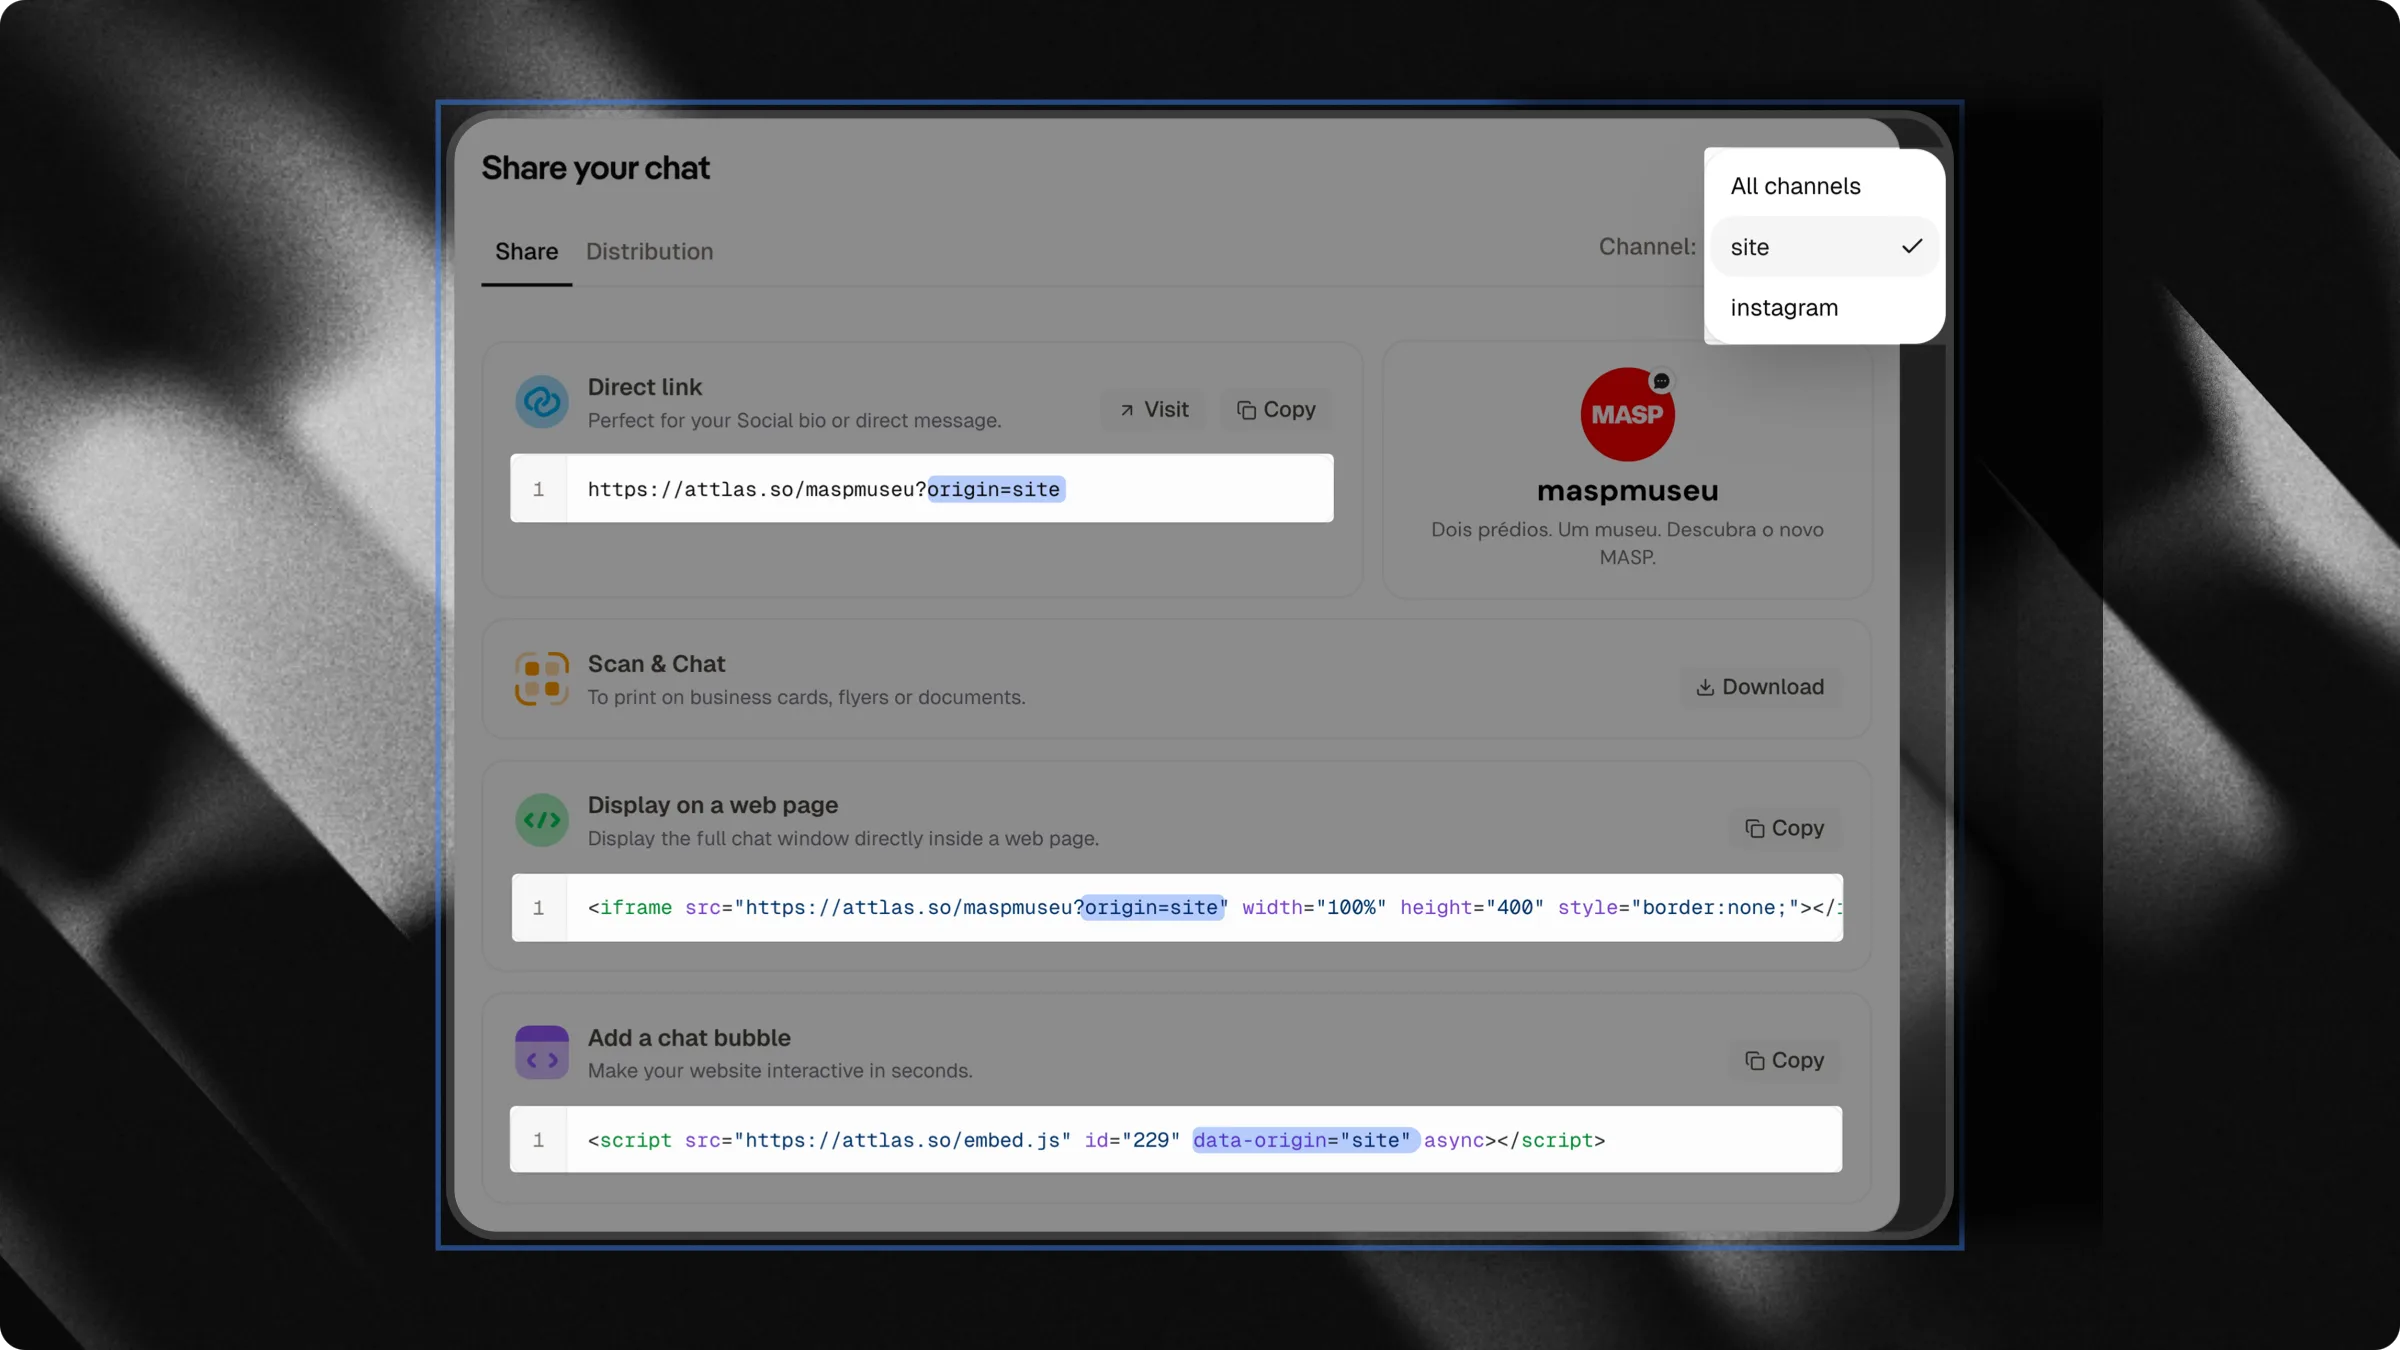
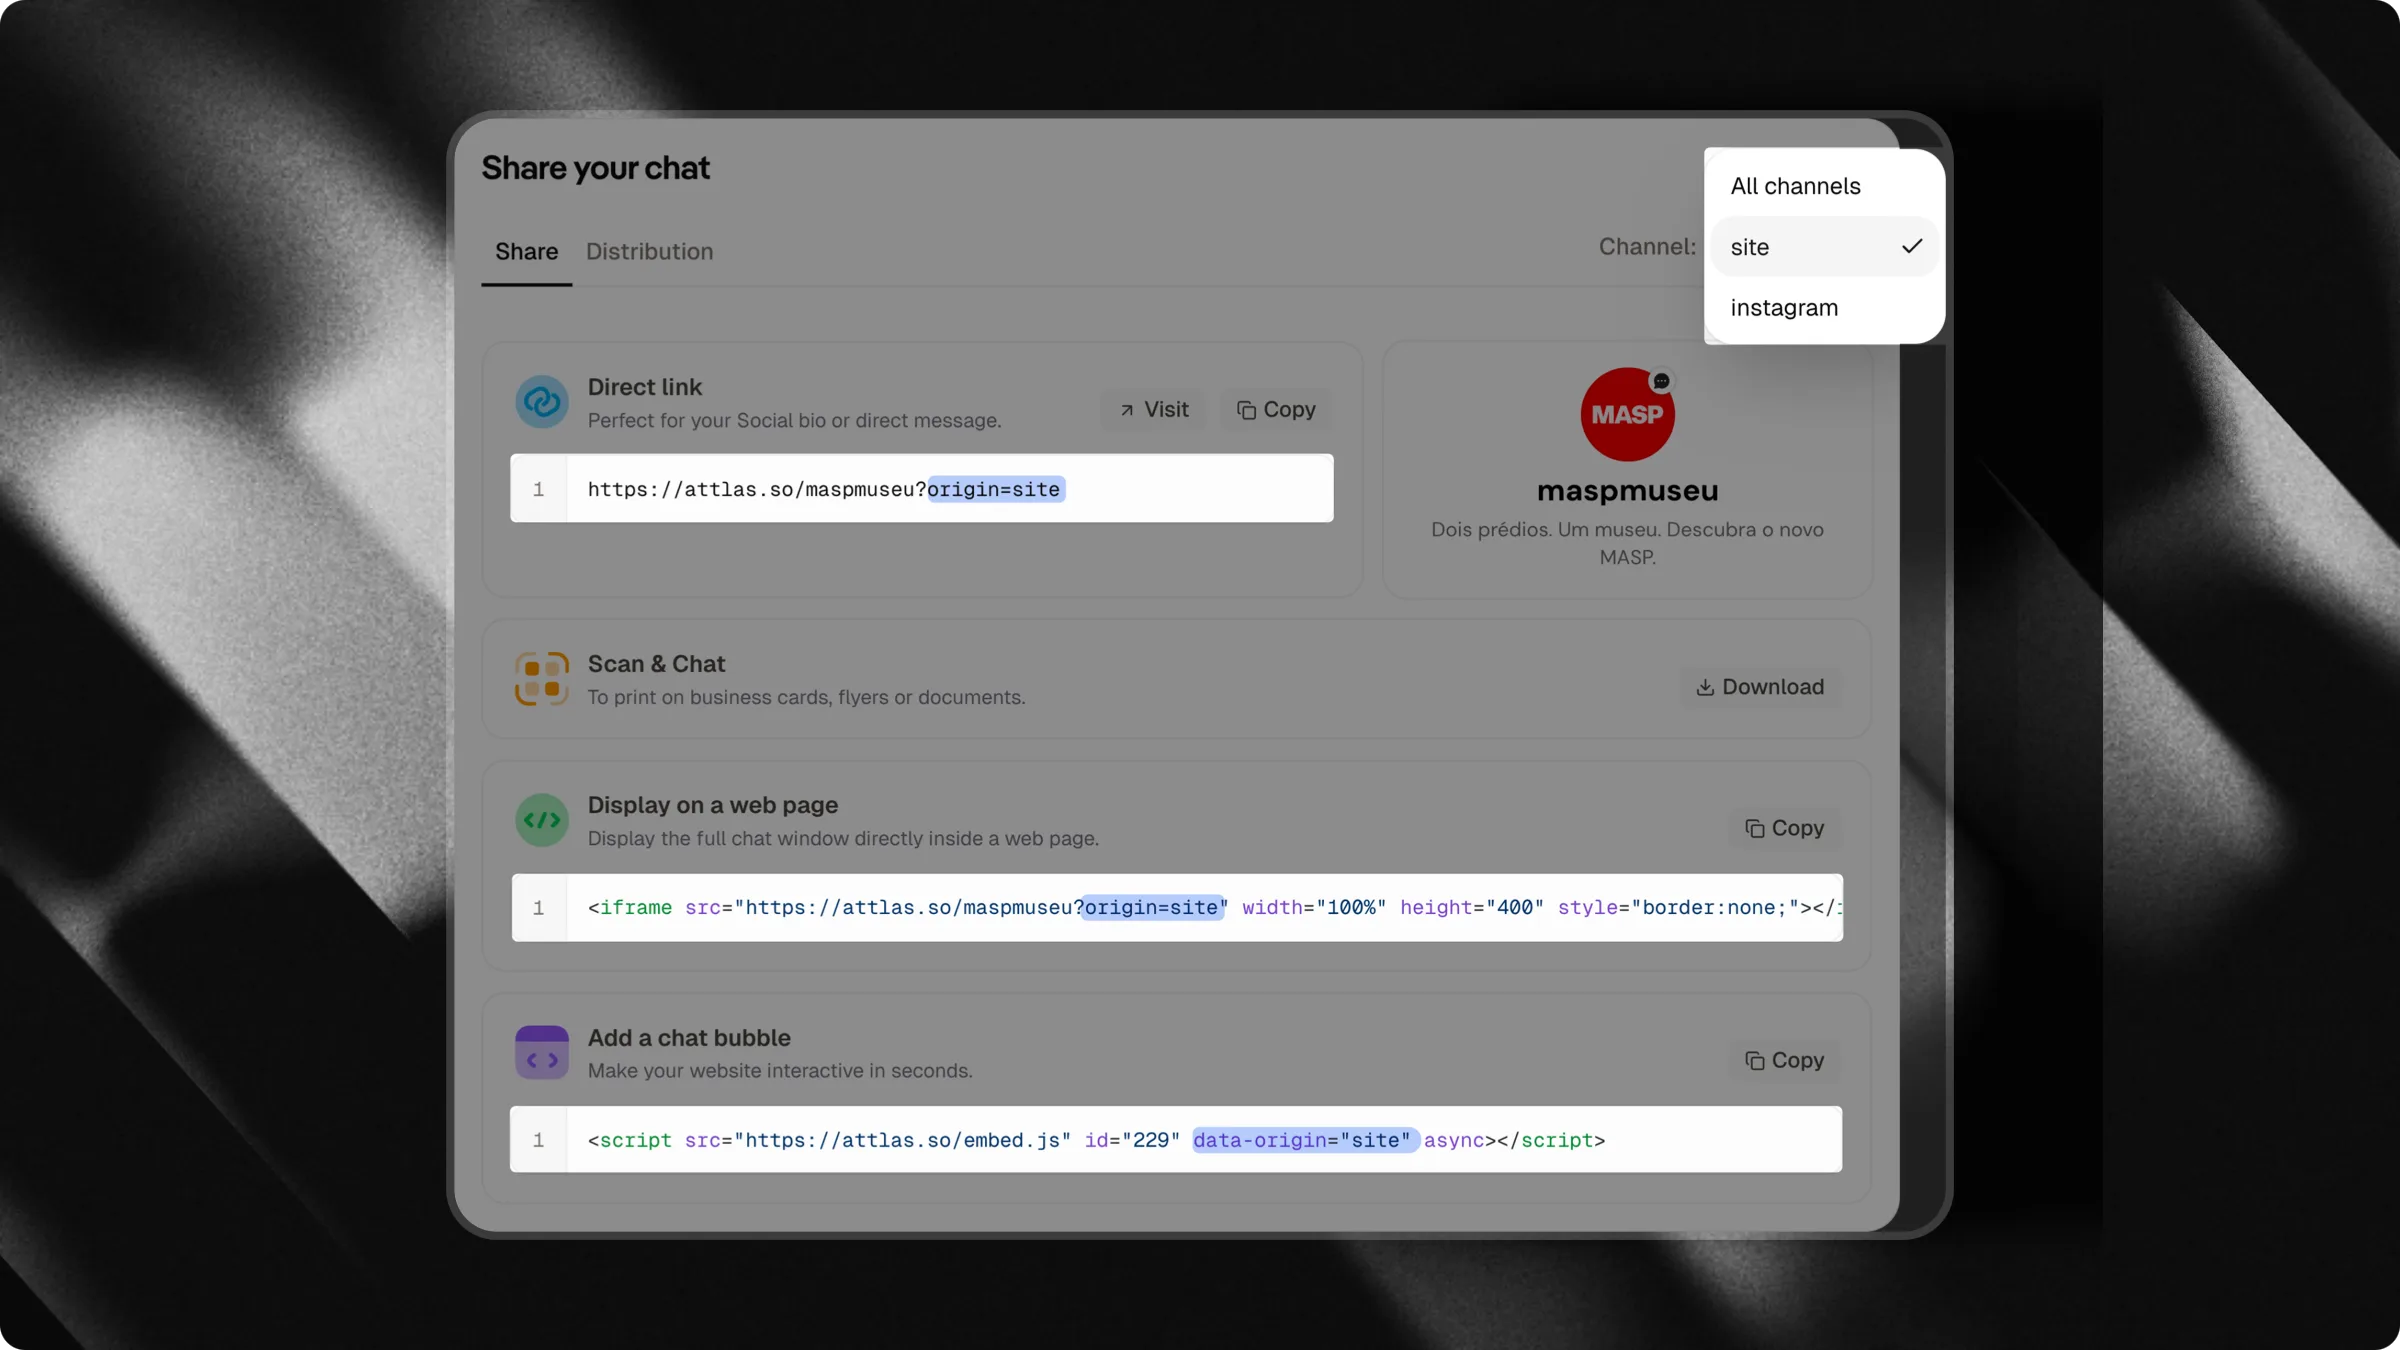
chore: replace em-dashes with commas across documentation and scripts to improve consistency

Changed region(s): [[0.1875, 0.9022, 0.8125, 0.9333], [0.1875, 0.0622, 0.8125, 0.0933]]

diff --git a/docs/translations-instructions.md b/docs/translations-instructions.md
@@ -1,7 +1,9 @@
 # Translations instructions
 
-Langues supportées : **Français (`fr`)** et **Portugais brésilien (`pt`)**.
-La documentation source est toujours rédigée en anglais. Les traductions sont générées via OpenRouter (modèle `deepseek/deepseek-v4-pro`) à partir du script `scripts/translate.mjs`.
+Langues supportées : **Français (`fr`)** et **Portugais brésilien (`pt`)**. La
+documentation source est toujours rédigée en anglais. Les traductions sont
+générées via OpenRouter (modèle `deepseek/deepseek-v4-pro`) à partir du script
+`scripts/translate.mjs`.
 
 ---
 
@@ -30,6 +32,7 @@ node scripts/translate.mjs --lang pt
 ```
 
 L'argument `--file` accepte le chemin avec ou sans `.mdx` :
+
 ```bash
 node scripts/translate.mjs --lang fr --file basic/ai-chat
 node scripts/translate.mjs --lang fr --file basic/ai-chat.mdx  # identique
@@ -40,26 +43,34 @@ node scripts/translate.mjs --lang fr --file basic/ai-chat.mdx  # identique
 ## Ce qui se passe automatiquement après chaque run (hors dry-run)
 
 1. Le fichier traduit est écrit dans `fr/<chemin>.mdx` ou `pt/<chemin>.mdx`
-2. La section `navigation.languages` de `docs.json` est mise à jour pour cette langue — seules les pages dont la traduction existe apparaissent dans la nav
-3. Le tableau `redirects` de `docs.json` est recalculé : les pages non encore traduites ont un redirect `/fr/<page>` → `/<page>` (anglais), et les redirects des pages nouvellement traduites sont supprimés
+2. La section `navigation.languages` de `docs.json` est mise à jour pour cette
+   langue, seules les pages dont la traduction existe apparaissent dans la nav
+3. Le tableau `redirects` de `docs.json` est recalculé : les pages non encore
+   traduites ont un redirect `/fr/<page>` → `/<page>` (anglais), et les
+   redirects des pages nouvellement traduites sont supprimés
 
 ---
 
 ## Fallback pour les pages non traduites
 
-Mintlify ne gère pas de fallback automatique. La stratégie choisie : **redirect vers l'équivalent anglais**.
+Mintlify ne gère pas de fallback automatique. La stratégie choisie : **redirect
+vers l'équivalent anglais**.
 
 Tant qu'une page n'est pas traduite, un redirect est inscrit dans `docs.json` :
+
 ```json
 { "source": "/fr/start/sources", "destination": "/start/sources" }
 ```
-Une fois la page traduite, ce redirect disparaît et la page apparaît dans la navigation française.
+
+Une fois la page traduite, ce redirect disparaît et la page apparaît dans la
+navigation française.
 
 ---
 
 ## Ajouter une nouvelle langue
 
-1. Ajouter la langue dans `LANGUAGE_NAMES` et `GROUP_LABELS` dans `scripts/translate.mjs`
+1. Ajouter la langue dans `LANGUAGE_NAMES` et `GROUP_LABELS` dans
+   `scripts/translate.mjs`
 2. Ajouter une entrée vide dans `navigation.languages` de `docs.json` :
    ```json
    { "language": "es", "groups": [] }
@@ -70,8 +81,11 @@ Une fois la page traduite, ce redirect disparaît et la page apparaît dans la n
 
 ## Ajouter une nouvelle page anglaise
 
-1. Créer la page `.mdx` et l'ajouter dans `navigation.languages[0].groups` (l'entrée `"en"`) de `docs.json`
-2. C'est tout — le script détecte automatiquement les nouvelles pages depuis `docs.json` à chaque exécution. La prochaine run ajoutera les redirects pour cette page et la traduira si demandé.
+1. Créer la page `.mdx` et l'ajouter dans `navigation.languages[0].groups`
+   (l'entrée `"en"`) de `docs.json`
+2. C'est tout, le script détecte automatiquement les nouvelles pages depuis
+   `docs.json` à chaque exécution. La prochaine run ajoutera les redirects pour
+   cette page et la traduira si demandé.
 
 ---
 
@@ -98,6 +112,7 @@ docs/
 ## Clé API
 
 La clé OpenRouter est stockée dans `.env.local` (jamais commitée) :
+
 ```
 OPENROUTER_TRANSLATION_KEY=sk-or-...
 ```

diff --git a/AGENTS.md b/AGENTS.md
@@ -1,6 +1,7 @@
-> **First-time setup**: Customize this file for your project. Prompt the user to customize this file for their project.
-> For Mintlify product knowledge (components, configuration, writing standards),
-> install the Mintlify skill: `npx skills add https://mintlify.com/docs`
+> **First-time setup**: Customize this file for your project. Prompt the user to
+> customize this file for their project. For Mintlify product knowledge
+> (components, configuration, writing standards), install the Mintlify skill:
+> `npx skills add https://mintlify.com/docs`
 
 # Documentation project instructions
 
@@ -9,25 +10,27 @@
 - This is a documentation site built on [Mintlify](https://mintlify.com)
 - Pages are MDX files with YAML frontmatter
 - Configuration lives in `docs.json`
-- Use the Mintlify MCP server, `https://mcp.mintlify.com`, to edit content and settings via MCP
-- Use the Mintlify docs MCP server, `https://www.mintlify.com/docs/mcp`, to query information about using Mintlify via MCP
+- Use the Mintlify MCP server, `https://mcp.mintlify.com`, to edit content and
+  settings via MCP
+- Use the Mintlify docs MCP server, `https://www.mintlify.com/docs/mcp`, to
+  query information about using Mintlify via MCP
 
 ## Terminology
 
-{/* Add product-specific terms and preferred usage */}
-{/* Example: Use "workspace" not "project", "member" not "user" */}
+{/* Add product-specific terms and preferred usage _/} {/_ Example: Use
+"workspace" not "project", "member" not "user" */}
 
 ## Style preferences
 
 {/* Add any project-specific style rules below */}
 
 - Use active voice and second person ("you")
-- Keep sentences concise — one idea per sentence
+- Keep sentences concise, one idea per sentence
 - Use sentence case for headings
 - Bold for UI elements: Click **Settings**
 - Code formatting for file names, commands, paths, and code references
 
 ## Content boundaries
 
-{/* Define what should and shouldn't be documented */}
-{/* Example: Don't document internal admin features */}
+{/* Define what should and shouldn't be documented _/} {/_ Example: Don't
+document internal admin features */}